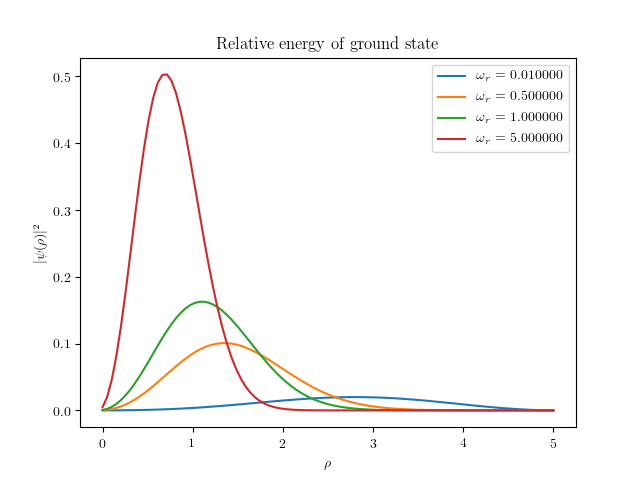
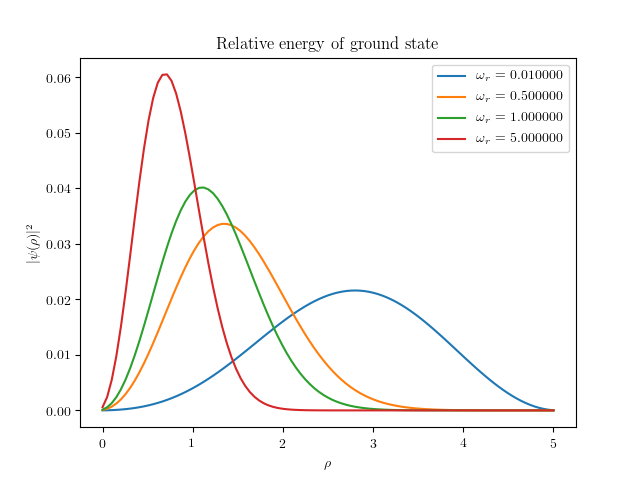
codish

diff --git a/Project 2/plotting.py b/Project 2/plotting.py
@@ -17,16 +17,15 @@ def plot_two_electron():
     first = True
     for omega in omegas:
         ev = np.loadtxt(filenamevec + omega + ext)
-        el = np.loadtxt(filenameval + omega + ext)
-        psi2 = el * ev**2
+        psi2 = ev**2
 
         if first:
-            x = np.linspace(0, 5.0, psi2.size)
+            rho = np.linspace(0, 5.0, psi2.size)
             psi2inter = psi2
             first = False
 
         cl = r"$\omega_r$ = " + omega
-        plt.plot(x, psi2, label=cl)
+        plt.plot(rho, psi2, label=cl)
     
     plt.title(r"Relative energy of ground state")
     plt.ylabel(r"$|\psi (\rho)|^2$")
@@ -35,8 +34,18 @@ def plot_two_electron():
     plt.legend()
     plt.show()
 
+    ev = np.loadtxt("results/noninteractionvector.txt")
+    psi2non = ev**2
 
-    plt.
+    plt.title(r"With and without Coulomb interaction $(\omega = 0.01)$")
+    plt.ylabel(r"$|\psi (\rho)|^2$")
+    plt.xlabel(r"$\rho$")
+
+    plt.plot(rho, psi2inter, label="interacting")
+    plt.plot(rho, psi2non, label="non-interacting")
+
+    plt.legend()
+    plt.show()
 
 
 if __name__ == '__main__':

diff --git a/Project 2/haroscill.cpp b/Project 2/haroscill.cpp
@@ -53,10 +53,10 @@ arma::vec Harmonic_oscillator::two_electrons(arma::mat *Ev, double omega,
     arma::mat A(N-1, N-1);
 
     arma::vec jeigval(N-1);
-    arma::vec dvar = omega * this->Vi;
+    arma::vec dvar =  this->Vi;
 
     if (inter == true) {
-        dvar = dvar + 1 / this->rho;
+        dvar = omega * dvar + 1 / this->rho;
     }
 
     Tridiag td(this->econst, this->dconst, N-1);
